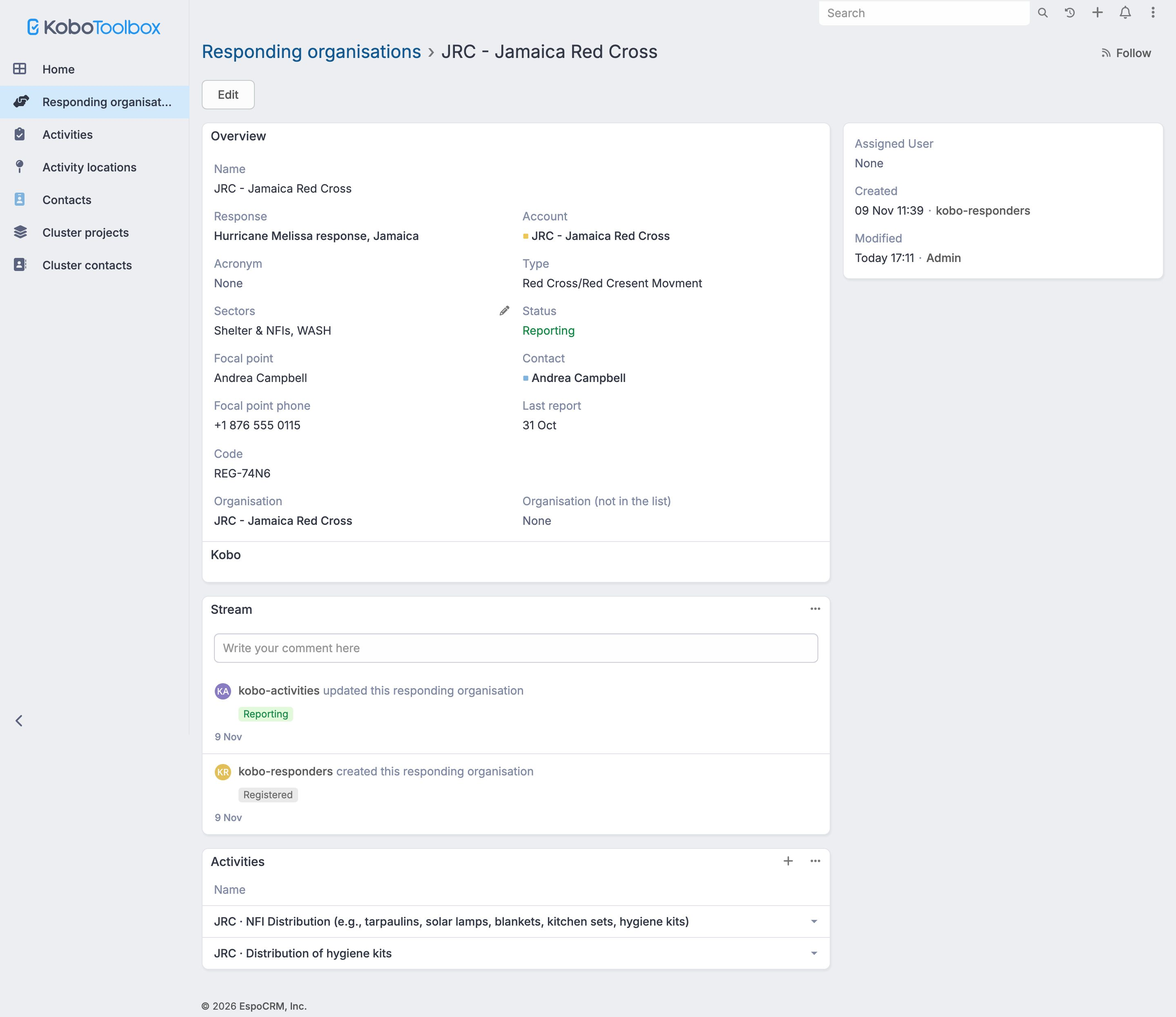
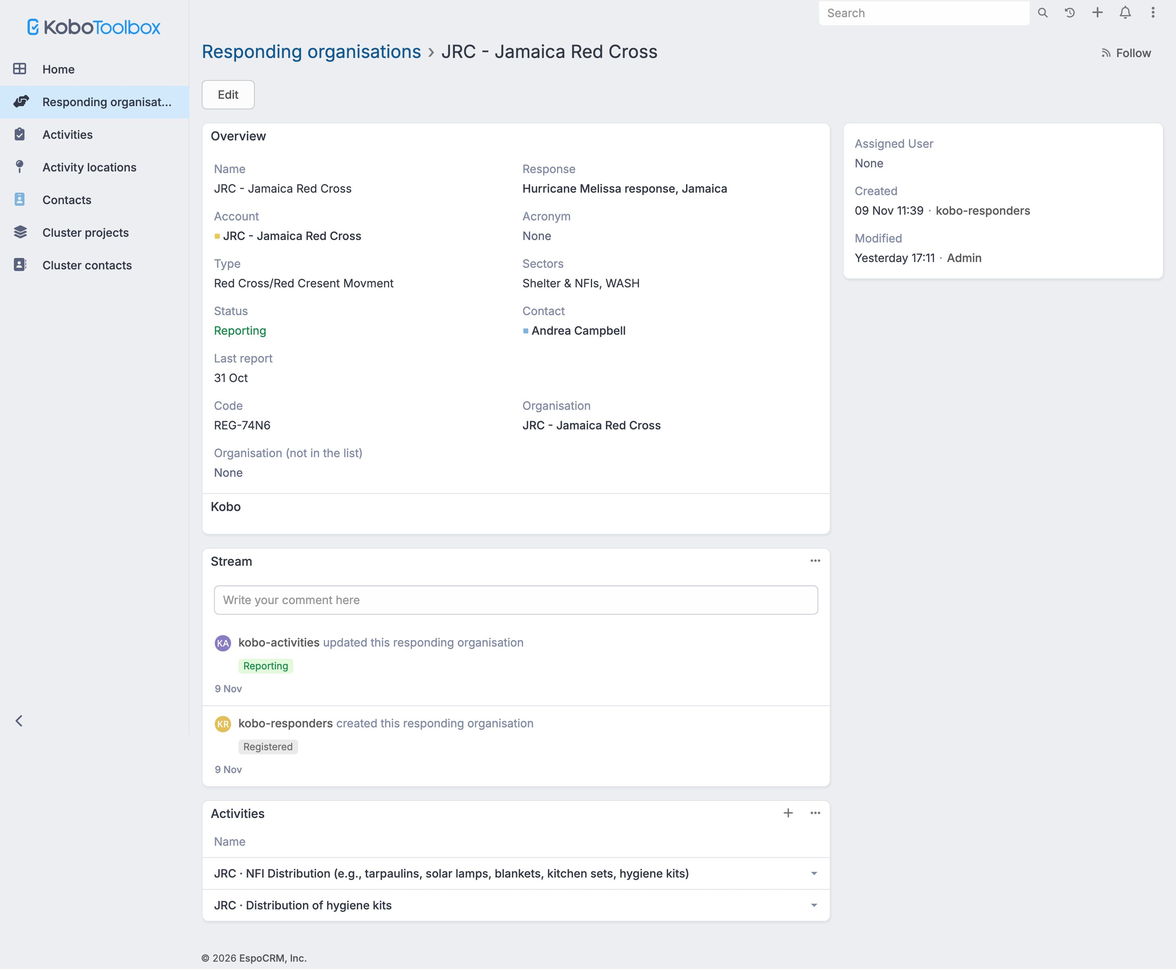
Manual: up to date with the P-codes switch and the geocoder's crosswalks
Running it: nine packs (assessments), pack params and migrations, the live
Melissa crosswalk and how to make one in the app's console; Connecting a form:
the instance's eleven connections; the registration screenshots without the
focal point's old fields (staging's layout cleaned up by API), the packs extension.

diff --git a/site/running.html b/site/running.html
@@ -75,18 +75,19 @@ deploy/bridges.sh                  # the bridge: one service for every connectio
 
 <section id="workflows">
 <h2>Workflows as packs</h2>
-<p>Each workflow is a folder of data in <code>workflows/</code>, not code: <strong>core</strong> (agents, admin areas, organisations, the task board), <strong>support</strong> (requests), <strong>responses</strong> (responses and cluster projects), <strong>roster</strong>, <strong>sites</strong>, <strong>grants</strong>, <strong>fivew</strong> (the 5W) and <strong>cso</strong> (CSO mapping). A pack has:</p>
+<p>Each workflow is a folder of data in <code>workflows/</code>, not code: <strong>core</strong> (agents, admin areas, organisations, the task board), <strong>support</strong> (requests), <strong>responses</strong> (responses and cluster projects), <strong>roster</strong>, <strong>sites</strong>, <strong>grants</strong>, <strong>fivew</strong> (the 5W), <strong>assessments</strong> (the assessment registry) and <strong>cso</strong> (CSO mapping). A pack has:</p>
 <ul>
   <li><code>workflow.toml</code>: the packs it builds on, its entities and their fields, fields it adds to others' entities, links, short codes, teams, roles, layouts, settings, reference data to load, and test users;</li>
-  <li><code>lists/</code>, choice lists with codes (an enum names one: <code>list = "cso-lists.roles"</code>); <code>formulas/</code>, its part of each entity's scripts; <code>agents.json</code>, its example agents; <code>data/</code>;</li>
+  <li><code>lists/</code>, choice lists with codes (an enum names one: <code>list = "cso-lists.roles"</code>); <code>formulas/</code>, its part of each entity's scripts; <code>agents.json</code>, its example agents; <code>data/</code>; <code>migrate.py</code>, for what data can't say (records from before a change);</li>
+  <li><code>[params]</code>: what an instance sets for it (its forms' links, the welcome emails), defaults in the pack and the instance's in <code>deploy/instance.toml</code> (<code>[params.cso]</code>, <code>[params.fivew]</code>);</li>
   <li>for what the admin API can't set (which link a portal follows), <code>[metadata]</code>, installed as one small EspoCRM extension, <em>Kobo workflows</em>; and <code>[portal_roles]</code>, <code>[[portals]]</code>.</li>
 </ul>
-<p>An instance says which packs it has, in <code>deploy/instance.toml</code>; the test droplet has all eight. A pack's role is put together from every pack that adds to it (the CSO pack gives <em>Internal Staff</em> nothing, the 5W gives the cluster roles its activities). <code>espo/workflows.py</code> applies them, writing only what differs: on an instance that's up to date the seed takes about four minutes and changes nothing.</p>
+<p>An instance says which packs it has, in <code>deploy/instance.toml</code>; the test droplet has all nine. A pack's role is put together from every pack that adds to it (the CSO pack gives <em>Internal Staff</em> nothing, the 5W gives the cluster roles its activities). <code>espo/workflows.py</code> applies them, writing only what differs: on an instance that's up to date the seed takes about four minutes and changes nothing.</p>
 <pre><code># deploy/instance.toml
 application_name = "Kobo requests and responses (test)"
-packs = ["core", "support", "responses", "roster", "sites", "grants", "fivew", "cso"]</code></pre>
+packs = ["core", "support", "responses", "roster", "sites", "grants", "fivew", "assessments", "cso"]</code></pre>
 <p>A new workflow, or a project's variant of one, is a new pack; a WHO instance with only the CSO mapping would have <code>packs = ["core", "cso"]</code>. <code>tests/snapshot.py</code> records what the seed made, to compare two runs. The plan: <code>plans/workflow-packs-plan.md</code>.</p>
-<figure><a href="static/shots/packs-extension.jpg"><img src="static/shots/packs-extension.jpg" width="1440" height="900" alt="Administration, Extensions: the extension Kobo workflows installed, its description naming the eight packs."></a><figcaption>The packs' metadata, as an extension the seed installs.</figcaption></figure>
+<figure><a href="static/shots/packs-extension.jpg"><img src="static/shots/packs-extension.jpg" width="1440" height="900" alt="Administration, Extensions: the extension Kobo workflows installed, its description naming the packs."></a><figcaption>The packs' metadata, as an extension the seed installs.</figcaption></figure>
 </section>
 
 <section id="email">
@@ -105,7 +106,7 @@ packs = ["core", "support", "responses", "roster", "sites", "grants", "fivew", "
 
 <section id="templates">
 <h2>Templates and connections</h2>
-<p>Each Kobo form's template says which records it makes, its routes to teams, who's notified, its fields, its lists and follow-ups. It's kept in the form's <strong>Kobo connection</strong>, a record in EspoCRM, and edited there or from a conversation with Claude. <a href="connect.html">Connecting a form</a> has how to connect one, what each question becomes, and this instance's four connections. kobo-espo-bridge's README describes every setting.</p>
+<p>Each Kobo form's template says which records it makes, its routes to teams, who's notified, its fields, its lists and follow-ups. It's kept in the form's <strong>Kobo connection</strong>, a record in EspoCRM, and edited there or from a conversation with Claude. <a href="connect.html">Connecting a form</a> has how to connect one, what each question becomes, and this instance's eleven connections. kobo-espo-bridge's README describes every setting.</p>
 </section>
 
 <section id="add">
@@ -129,9 +130,9 @@ packs = ["core", "support", "responses", "roster", "sites", "grants", "fivew", "
 <section id="pcodes">
 <h2>P-codes: a response with codes of its own</h2>
 <p>EspoCRM's <strong>admin areas</strong> are the Humanitarian Geocoder's: the OCHA COD-AB boundaries from HDX, with their P-codes. They're the <strong>one set of codes</strong> every record is filed under: the dashboards' maps are shaded on the same boundaries, the P-coding agents find areas by them, and gaps and overlaps compare them. <code>espo/seed/admin_areas.py</code> writes a country's areas (<code>workflows/core/data/admin-areas-&lt;iso3&gt;.json</code>, each country in one file), and the seed loads them. <code>--countries</code> writes the country row (admin0) of every other country the geocoder has.</p>
-<p>A response often brings codes of its own: its 5W form's, a government's list, an older COD version. Hurricane Melissa's 5W form numbers Jamaica's parishes differently (Kingston is <code>JM17</code> there, <code>JM03</code> in the COD-AB) and skips a level (its communities sit straight under the parishes; the COD-AB has 131 constituencies between). Such a set of codes gets a <strong>crosswalk</strong> in the geocoder (its <code>docs/crosswalks.md</code>): each of its codes matched to a P-code, by the same code, by the same name within its parent's area, a close name for a person to confirm, or by hand; what can't be matched is listed to resolve. Melissa's 790 codes all match: 4 by code, 786 by name.</p>
+<p>A response often brings codes of its own: its 5W form's, a government's list, an older COD version. Hurricane Melissa's 5W form numbers Jamaica's parishes differently (Kingston is <code>JM17</code> there, <code>JM03</code> in the COD-AB) and skips a level (its communities sit straight under the parishes; the COD-AB has 131 constituencies between). Such a set of codes gets a <strong>crosswalk</strong> in the geocoder (its <code>docs/crosswalks.md</code>; Melissa's is live at <a href="https://geocoder.kobolabs.dev/crosswalks/JM/melissa-5w.json"><code>geocoder.kobolabs.dev/crosswalks/JM/melissa-5w.json</code></a>, and <code>.csv</code>): each of its codes matched to a P-code, by the same code, by the same name within its parent's area, a close name for a person to confirm, or by hand; what can't be matched is listed to resolve. Melissa's 790 codes all match: 4 by code, 786 by name.</p>
 <ol>
-  <li><strong>Make the crosswalk</strong> in the geocoder from the set's codes (a CSV of code, name, level, parent code): <code>manage.py build_crosswalk JM melissa-5w crosswalks/JM_melissa-5w.csv</code>, or its API. Review what it couldn't match, and set those by hand.</li>
+  <li><strong>Make the crosswalk</strong> in the geocoder from the set's codes (a CSV of code, name, level, parent code, kept in the geocoder's <code>crosswalks/</code>): in the app's console (<code>doctl apps console &lt;app&gt; web</code>), <code>python manage.py build_crosswalk JM melissa-5w crosswalks/JM_melissa-5w.csv --name "…"</code>, or with its API and an admin's token. It prints how many matched each way and how many are left to review; set those by hand (its Django admin, or the API).</li>
   <li><strong>Give the areas their other code</strong>: <code>python3 -I espo/seed/admin_areas.py JM --max-level 3 --crosswalk melissa-5w</code> (or <code>--crosswalk-file</code>, its JSON). Each area gets the set's code as its <em>Other P-code</em> (<code>altPcode</code>, with the crosswalk's key in <code>altScheme</code>) and its admin1's code (<code>pcode1</code>).</li>
   <li><strong>Seed.</strong> An area EspoCRM still has under the set's code is <strong>re-keyed in place</strong> (the data step's <code>was</code>): its record takes the geocoder's code, name, level and parent, so every report, location and assessment linked to it stays linked. The packs' migrations then bring what copied the old codes along: activity locations their parish's code and names, assessments their areas' codes (and their overlaps). A second seed re-keys nothing.</li>
 </ol>

diff --git a/site/pages/running.html b/site/pages/running.html
@@ -45,18 +45,19 @@ deploy/bridges.sh                  # the bridge: one service for every connectio
 
 <section id="workflows">
 <h2>Workflows as packs</h2>
-<p>Each workflow is a folder of data in <code>workflows/</code>, not code: <strong>core</strong> (agents, admin areas, organisations, the task board), <strong>support</strong> (requests), <strong>responses</strong> (responses and cluster projects), <strong>roster</strong>, <strong>sites</strong>, <strong>grants</strong>, <strong>fivew</strong> (the 5W) and <strong>cso</strong> (CSO mapping). A pack has:</p>
+<p>Each workflow is a folder of data in <code>workflows/</code>, not code: <strong>core</strong> (agents, admin areas, organisations, the task board), <strong>support</strong> (requests), <strong>responses</strong> (responses and cluster projects), <strong>roster</strong>, <strong>sites</strong>, <strong>grants</strong>, <strong>fivew</strong> (the 5W), <strong>assessments</strong> (the assessment registry) and <strong>cso</strong> (CSO mapping). A pack has:</p>
 <ul>
   <li><code>workflow.toml</code>: the packs it builds on, its entities and their fields, fields it adds to others' entities, links, short codes, teams, roles, layouts, settings, reference data to load, and test users;</li>
-  <li><code>lists/</code>, choice lists with codes (an enum names one: <code>list = "cso-lists.roles"</code>); <code>formulas/</code>, its part of each entity's scripts; <code>agents.json</code>, its example agents; <code>data/</code>;</li>
+  <li><code>lists/</code>, choice lists with codes (an enum names one: <code>list = "cso-lists.roles"</code>); <code>formulas/</code>, its part of each entity's scripts; <code>agents.json</code>, its example agents; <code>data/</code>; <code>migrate.py</code>, for what data can't say (records from before a change);</li>
+  <li><code>[params]</code>: what an instance sets for it (its forms' links, the welcome emails), defaults in the pack and the instance's in <code>deploy/instance.toml</code> (<code>[params.cso]</code>, <code>[params.fivew]</code>);</li>
   <li>for what the admin API can't set (which link a portal follows), <code>[metadata]</code>, installed as one small EspoCRM extension, <em>Kobo workflows</em>; and <code>[portal_roles]</code>, <code>[[portals]]</code>.</li>
 </ul>
-<p>An instance says which packs it has, in <code>deploy/instance.toml</code>; the test droplet has all eight. A pack's role is put together from every pack that adds to it (the CSO pack gives <em>Internal Staff</em> nothing, the 5W gives the cluster roles its activities). <code>espo/workflows.py</code> applies them, writing only what differs: on an instance that's up to date the seed takes about four minutes and changes nothing.</p>
+<p>An instance says which packs it has, in <code>deploy/instance.toml</code>; the test droplet has all nine. A pack's role is put together from every pack that adds to it (the CSO pack gives <em>Internal Staff</em> nothing, the 5W gives the cluster roles its activities). <code>espo/workflows.py</code> applies them, writing only what differs: on an instance that's up to date the seed takes about four minutes and changes nothing.</p>
 <pre><code># deploy/instance.toml
 application_name = "Kobo requests and responses (test)"
-packs = ["core", "support", "responses", "roster", "sites", "grants", "fivew", "cso"]</code></pre>
+packs = ["core", "support", "responses", "roster", "sites", "grants", "fivew", "assessments", "cso"]</code></pre>
 <p>A new workflow, or a project's variant of one, is a new pack; a WHO instance with only the CSO mapping would have <code>packs = ["core", "cso"]</code>. <code>tests/snapshot.py</code> records what the seed made, to compare two runs. The plan: <code>plans/workflow-packs-plan.md</code>.</p>
-<figure><a href="static/shots/packs-extension.jpg"><img src="static/shots/packs-extension.jpg" alt="Administration, Extensions: the extension Kobo workflows installed, its description naming the eight packs."></a><figcaption>The packs' metadata, as an extension the seed installs.</figcaption></figure>
+<figure><a href="static/shots/packs-extension.jpg"><img src="static/shots/packs-extension.jpg" alt="Administration, Extensions: the extension Kobo workflows installed, its description naming the packs."></a><figcaption>The packs' metadata, as an extension the seed installs.</figcaption></figure>
 </section>
 
 <section id="email">
@@ -75,7 +76,7 @@ packs = ["core", "support", "responses", "roster", "sites", "grants", "fivew", "
 
 <section id="templates">
 <h2>Templates and connections</h2>
-<p>Each Kobo form's template says which records it makes, its routes to teams, who's notified, its fields, its lists and follow-ups. It's kept in the form's <strong>Kobo connection</strong>, a record in EspoCRM, and edited there or from a conversation with Claude. <a href="connect.html">Connecting a form</a> has how to connect one, what each question becomes, and this instance's four connections. kobo-espo-bridge's README describes every setting.</p>
+<p>Each Kobo form's template says which records it makes, its routes to teams, who's notified, its fields, its lists and follow-ups. It's kept in the form's <strong>Kobo connection</strong>, a record in EspoCRM, and edited there or from a conversation with Claude. <a href="connect.html">Connecting a form</a> has how to connect one, what each question becomes, and this instance's eleven connections. kobo-espo-bridge's README describes every setting.</p>
 </section>
 
 <section id="add">
@@ -99,9 +100,9 @@ packs = ["core", "support", "responses", "roster", "sites", "grants", "fivew", "
 <section id="pcodes">
 <h2>P-codes: a response with codes of its own</h2>
 <p>EspoCRM's <strong>admin areas</strong> are the Humanitarian Geocoder's: the OCHA COD-AB boundaries from HDX, with their P-codes. They're the <strong>one set of codes</strong> every record is filed under: the dashboards' maps are shaded on the same boundaries, the P-coding agents find areas by them, and gaps and overlaps compare them. <code>espo/seed/admin_areas.py</code> writes a country's areas (<code>workflows/core/data/admin-areas-&lt;iso3&gt;.json</code>, each country in one file), and the seed loads them. <code>--countries</code> writes the country row (admin0) of every other country the geocoder has.</p>
-<p>A response often brings codes of its own: its 5W form's, a government's list, an older COD version. Hurricane Melissa's 5W form numbers Jamaica's parishes differently (Kingston is <code>JM17</code> there, <code>JM03</code> in the COD-AB) and skips a level (its communities sit straight under the parishes; the COD-AB has 131 constituencies between). Such a set of codes gets a <strong>crosswalk</strong> in the geocoder (its <code>docs/crosswalks.md</code>): each of its codes matched to a P-code, by the same code, by the same name within its parent's area, a close name for a person to confirm, or by hand; what can't be matched is listed to resolve. Melissa's 790 codes all match: 4 by code, 786 by name.</p>
+<p>A response often brings codes of its own: its 5W form's, a government's list, an older COD version. Hurricane Melissa's 5W form numbers Jamaica's parishes differently (Kingston is <code>JM17</code> there, <code>JM03</code> in the COD-AB) and skips a level (its communities sit straight under the parishes; the COD-AB has 131 constituencies between). Such a set of codes gets a <strong>crosswalk</strong> in the geocoder (its <code>docs/crosswalks.md</code>; Melissa's is live at <a href="https://geocoder.kobolabs.dev/crosswalks/JM/melissa-5w.json"><code>geocoder.kobolabs.dev/crosswalks/JM/melissa-5w.json</code></a>, and <code>.csv</code>): each of its codes matched to a P-code, by the same code, by the same name within its parent's area, a close name for a person to confirm, or by hand; what can't be matched is listed to resolve. Melissa's 790 codes all match: 4 by code, 786 by name.</p>
 <ol>
-  <li><strong>Make the crosswalk</strong> in the geocoder from the set's codes (a CSV of code, name, level, parent code): <code>manage.py build_crosswalk JM melissa-5w crosswalks/JM_melissa-5w.csv</code>, or its API. Review what it couldn't match, and set those by hand.</li>
+  <li><strong>Make the crosswalk</strong> in the geocoder from the set's codes (a CSV of code, name, level, parent code, kept in the geocoder's <code>crosswalks/</code>): in the app's console (<code>doctl apps console &lt;app&gt; web</code>), <code>python manage.py build_crosswalk JM melissa-5w crosswalks/JM_melissa-5w.csv --name "…"</code>, or with its API and an admin's token. It prints how many matched each way and how many are left to review; set those by hand (its Django admin, or the API).</li>
   <li><strong>Give the areas their other code</strong>: <code>python3 -I espo/seed/admin_areas.py JM --max-level 3 --crosswalk melissa-5w</code> (or <code>--crosswalk-file</code>, its JSON). Each area gets the set's code as its <em>Other P-code</em> (<code>altPcode</code>, with the crosswalk's key in <code>altScheme</code>) and its admin1's code (<code>pcode1</code>).</li>
   <li><strong>Seed.</strong> An area EspoCRM still has under the set's code is <strong>re-keyed in place</strong> (the data step's <code>was</code>): its record takes the geocoder's code, name, level and parent, so every report, location and assessment linked to it stays linked. The packs' migrations then bring what copied the old codes along: activity locations their parish's code and names, assessments their areas' codes (and their overlaps). A second seed re-keys nothing.</li>
 </ol>

diff --git a/site/fivew.html b/site/fivew.html
@@ -85,7 +85,7 @@
   <li>An organisation can also <strong>register</strong> for a response with the registration form: the organisation (from the list), the sectors it works in, its focal point and any others. Registering again updates the same record. A registration is in the teams of the response's projects in those sectors, so each cluster sees the organisations working in it.</li>
 </ul>
 <figure><a href="static/shots/fivew-organisations.jpg"><img src="static/shots/fivew-organisations.jpg" width="1440" height="900" alt="The Organisations list: 137 organisations from the Melissa form, each with its ORG_ code and type (National NGO, Government, Private Sector, International NGO, UN Agency)."></a><figcaption>The Melissa form's organisations, the list a report picks from.</figcaption></figure>
-<figure><a href="static/shots/fivew-registration.jpg"><img src="static/shots/fivew-registration.jpg" width="1440" height="1538" alt="The responding organisation JRC - Jamaica Red Cross in Hurricane Melissa response, Jamaica: type Red Cross/Red Crescent Movement, sectors WASH and Shelter &amp; NFIs, status Reporting, its focal point Andrea Campbell (a contact), last report 31 Oct, registration key and code; in the teams of the response and of its WASH and Shelter projects. Below, its two activities."></a><figcaption>A registration from the form. It's in the response's team and its sectors' projects'; its activities are on it, and its follow-up tasks would be too.</figcaption></figure>
+<figure><a href="static/shots/fivew-registration.jpg"><img src="static/shots/fivew-registration.jpg" width="1440" height="1422" alt="The responding organisation JRC - Jamaica Red Cross in Hurricane Melissa response, Jamaica: type Red Cross/Red Crescent Movement, sectors WASH and Shelter &amp; NFIs, status Reporting, its focal point Andrea Campbell (a contact), last report 31 Oct, registration key and code; in the teams of the response and of its WASH and Shelter projects. Below, its two activities."></a><figcaption>A registration from the form. It's in the response's team and its sectors' projects'; its activities are on it, and its follow-up tasks would be too.</figcaption></figure>
 </section>
 
 <section id="activities">
@@ -110,7 +110,7 @@
 </ul>
 <p>It never shows another organisation: who else works where is the dashboard's.</p>
 <p>A coordinator gives someone a login with the EspoCRM MCP's <code>invite_portal_user</code> (a Contact on the organisation's Account; EspoCRM emails them a link to set their password). A newly registered organisation's focal point gets a <strong>welcome email</strong>: its registration code, the activity report's link with the response and the organisation filled in, and the portal's address. The instance turns it on and gives the links (<code>deploy/instance.toml</code>, <code>[params.fivew]</code>).</p>
-<figure><a href="static/shots/fivew-portal-registration.jpg"><img src="static/shots/fivew-portal-registration.jpg" width="1440" height="1246" alt="The organisation portal as the Jamaica Red Cross's focal point: its registration in the Hurricane Melissa response, with its type, sectors (editable), status Reporting, focal point and code; its two activities below. The menu: Responding organisations, Activities, Activity locations, Contacts, Cluster projects, Cluster contacts."></a><figcaption>The Jamaica Red Cross's registration, as its focal point sees it in the portal.</figcaption></figure>
+<figure><a href="static/shots/fivew-portal-registration.jpg"><img src="static/shots/fivew-portal-registration.jpg" width="1440" height="1187" alt="The organisation portal as the Jamaica Red Cross's focal point: its registration in the Hurricane Melissa response, with its type, sectors (editable), status Reporting, focal point and code; its two activities below. The menu: Responding organisations, Activities, Activity locations, Contacts, Cluster projects, Cluster contacts."></a><figcaption>The Jamaica Red Cross's registration, as its focal point sees it in the portal.</figcaption></figure>
 <figure><a href="static/shots/fivew-portal-activities.jpg"><img src="static/shots/fivew-portal-activities.jpg" width="1440" height="900" alt="The portal's Activities list: only the Jamaica Red Cross's activities."></a><figcaption>Its activities only: another organisation's aren't there.</figcaption></figure>
 <figure><a href="static/shots/fivew-portal-contacts.jpg"><img src="static/shots/fivew-portal-contacts.jpg" width="1440" height="900" alt="The portal's Cluster contacts list: the WASH and Shelter clusters' coordinators, co-coordinator, IMO and government focal point, with their organisations, emails and phones; not the Emergency Telecommunications cluster's, which the Jamaica Red Cross isn't in."></a><figcaption>Who to contact in its clusters (WASH and Shelter), not in the others.</figcaption></figure>
 </section>
@@ -185,7 +185,7 @@
 <section id="limits">
 <h2>Limits</h2>
 <ul>
-  <li>The areas list (789 parishes and communities) goes to every phone with the form.</li>
+  <li>The areas list (Jamaica's 14 parishes and 775 communities) goes to every phone with the form.</li>
   <li>An organisation's report isn't checked against its registration: the list is what it picks from, registration is optional.</li>
   <li>Charts, maps and the 5W's tables are dashboards: see <a href="dashboards.html">Dashboards</a>.</li>
   <li>An overlap flags the later community only, and goes when that one is saved again after the other activity is completed.</li>

diff --git a/site/connect.html b/site/connect.html
@@ -173,7 +173,7 @@ claude mcp add --transport http espocrm https://&lt;your EspoCRM&gt;/bridge/mcp 
   <li><strong>Active</strong>: untick it to pause the connection. Ticking it again picks up the submissions made meanwhile.</li>
   <li><strong>Template</strong>: edit it here, or ask Claude (<code>update_connection</code> shows the change first). The bridge sets the connection up again in its next pass. It also checks every 10 minutes whether the form has a new version.</li>
 </ul>
-<p>This instance's four forms are connections like any other:</p>
+<p>This instance's eleven forms are connections like any other:</p>
 <div class="table-scroll"><table>
   <thead><tr><th>Connection</th><th>Form</th><th>Makes</th><th>API user</th></tr></thead>
   <tbody>
@@ -181,6 +181,11 @@ claude mcp add --transport http espocrm https://&lt;your EspoCRM&gt;/bridge/mcp 
     <tr><td>volunteer</td><td>Volunteer availability</td><td>Contacts (volunteers)</td><td><code>kobo-volunteers</code></td></tr>
     <tr><td>site-registration</td><td>Site registration</td><td>Sites; <code>responses.csv</code>, <code>standards.csv</code> (<a href="sites.html">Sites</a>)</td><td><code>kobo-sites</code></td></tr>
     <tr><td>site-visit</td><td>Site visit - Test EQ 1</td><td>Visit notes on sites; <code>sites.csv</code></td><td><code>kobo-site-lists</code>, <code>kobo-site-visits</code></td></tr>
+    <tr><td>responder-registration</td><td>Responding organisation registration</td><td>5W registrations, their focal points as Contacts; <code>responses.csv</code>, <code>organisations.csv</code> (<a href="fivew.html">The 5W</a>)</td><td><code>kobo-responders</code></td></tr>
+    <tr><td>activity-report</td><td>5W activity report</td><td>Activities, their communities and focal points; <code>responses.csv</code>, <code>organisations.csv</code>, <code>areas.csv</code></td><td><code>kobo-activities</code></td></tr>
+    <tr><td>assessment-registration</td><td>Assessment registration</td><td>Assessments and their areas; the same three lists (<a href="assessments.html">Assessment registry</a>)</td><td><code>kobo-assessment-registration</code></td></tr>
+    <tr><td>cso-profile, cso-profile-ken</td><td>CSO profile (and Kenya's)</td><td>CSOs, their places and contacts; Kenya's <code>areas.csv</code> (<a href="cso.html">CSO mapping</a>)</td><td><code>kobo-cso-profile</code>, <code>kobo-cso-profile-ken</code></td></tr>
+    <tr><td>cso-update, cso-update-ken</td><td>CSO update (and Kenya's)</td><td>CSO updates; Kenya's <code>areas.csv</code></td><td><code>kobo-cso-update</code>, <code>kobo-cso-update-ken</code></td></tr>
   </tbody>
 </table></div>
 <p>They were made from the files in <code>kobo/templates/</code> on the droplet's first deploy (<code>serve adopt</code>, run by <code>deploy/bridges.sh</code>). The files are kept as the tests' fixtures; changing one doesn't change the droplet.</p>

diff --git a/site/pages/connect.html b/site/pages/connect.html
@@ -143,7 +143,7 @@ claude mcp add --transport http espocrm https://&lt;your EspoCRM&gt;/bridge/mcp 
   <li><strong>Active</strong>: untick it to pause the connection. Ticking it again picks up the submissions made meanwhile.</li>
   <li><strong>Template</strong>: edit it here, or ask Claude (<code>update_connection</code> shows the change first). The bridge sets the connection up again in its next pass. It also checks every 10 minutes whether the form has a new version.</li>
 </ul>
-<p>This instance's four forms are connections like any other:</p>
+<p>This instance's eleven forms are connections like any other:</p>
 <div class="table-scroll"><table>
   <thead><tr><th>Connection</th><th>Form</th><th>Makes</th><th>API user</th></tr></thead>
   <tbody>
@@ -151,6 +151,11 @@ claude mcp add --transport http espocrm https://&lt;your EspoCRM&gt;/bridge/mcp 
     <tr><td>volunteer</td><td>Volunteer availability</td><td>Contacts (volunteers)</td><td><code>kobo-volunteers</code></td></tr>
     <tr><td>site-registration</td><td>Site registration</td><td>Sites; <code>responses.csv</code>, <code>standards.csv</code> (<a href="sites.html">Sites</a>)</td><td><code>kobo-sites</code></td></tr>
     <tr><td>site-visit</td><td>Site visit - Test EQ 1</td><td>Visit notes on sites; <code>sites.csv</code></td><td><code>kobo-site-lists</code>, <code>kobo-site-visits</code></td></tr>
+    <tr><td>responder-registration</td><td>Responding organisation registration</td><td>5W registrations, their focal points as Contacts; <code>responses.csv</code>, <code>organisations.csv</code> (<a href="fivew.html">The 5W</a>)</td><td><code>kobo-responders</code></td></tr>
+    <tr><td>activity-report</td><td>5W activity report</td><td>Activities, their communities and focal points; <code>responses.csv</code>, <code>organisations.csv</code>, <code>areas.csv</code></td><td><code>kobo-activities</code></td></tr>
+    <tr><td>assessment-registration</td><td>Assessment registration</td><td>Assessments and their areas; the same three lists (<a href="assessments.html">Assessment registry</a>)</td><td><code>kobo-assessment-registration</code></td></tr>
+    <tr><td>cso-profile, cso-profile-ken</td><td>CSO profile (and Kenya's)</td><td>CSOs, their places and contacts; Kenya's <code>areas.csv</code> (<a href="cso.html">CSO mapping</a>)</td><td><code>kobo-cso-profile</code>, <code>kobo-cso-profile-ken</code></td></tr>
+    <tr><td>cso-update, cso-update-ken</td><td>CSO update (and Kenya's)</td><td>CSO updates; Kenya's <code>areas.csv</code></td><td><code>kobo-cso-update</code>, <code>kobo-cso-update-ken</code></td></tr>
   </tbody>
 </table></div>
 <p>They were made from the files in <code>kobo/templates/</code> on the droplet's first deploy (<code>serve adopt</code>, run by <code>deploy/bridges.sh</code>). The files are kept as the tests' fixtures; changing one doesn't change the droplet.</p>

diff --git a/site/pages/fivew.html b/site/pages/fivew.html
@@ -155,7 +155,7 @@
 <section id="limits">
 <h2>Limits</h2>
 <ul>
-  <li>The areas list (789 parishes and communities) goes to every phone with the form.</li>
+  <li>The areas list (Jamaica's 14 parishes and 775 communities) goes to every phone with the form.</li>
   <li>An organisation's report isn't checked against its registration: the list is what it picks from, registration is optional.</li>
   <li>Charts, maps and the 5W's tables are dashboards: see <a href="dashboards.html">Dashboards</a>.</li>
   <li>An overlap flags the later community only, and goes when that one is saved again after the other activity is completed.</li>
